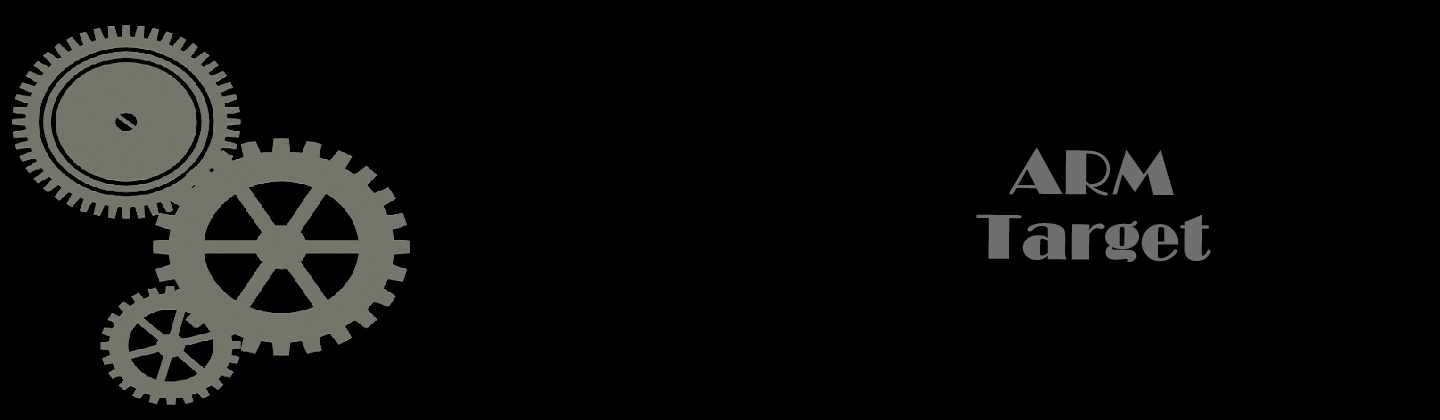
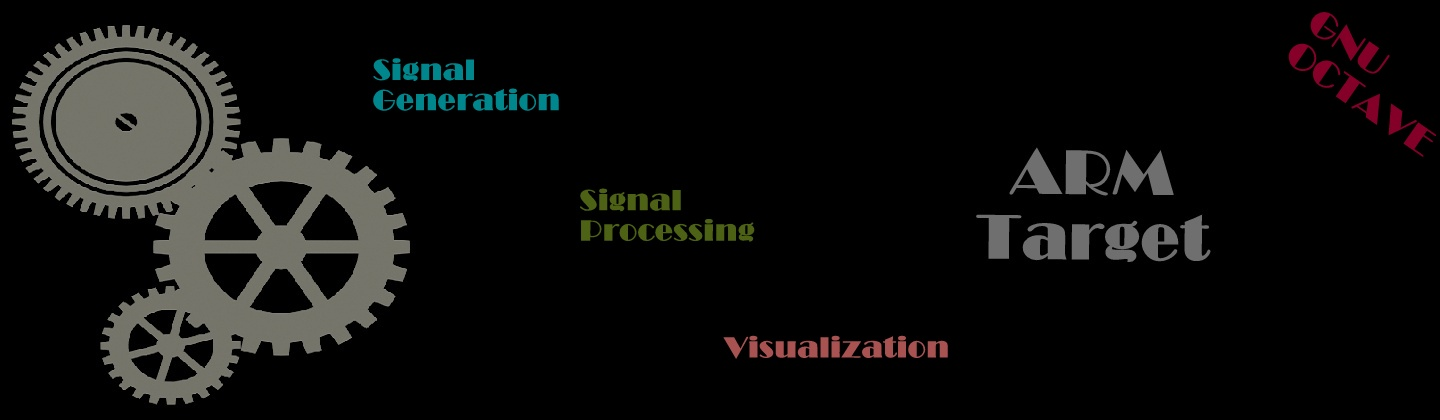
Chenges cover picture and few UI improvmenets

diff --git a/frontend/index.html b/frontend/index.html
@@ -57,7 +57,7 @@
     <nav class="navbar navbar-inverse" role="navigation">
       <div class="navbar-header">
         <button type="button" id="nav-toggle" class="navbar-toggle" data-toggle="collapse" data-target="#main-nav"> <span class="sr-only">Toggle navigation</span> <span class="icon-bar"></span> <span class="icon-bar"></span> <span class="icon-bar"></span> </button>
-        <a href="#" class="navbar-brand scroll-top logo  animated bounceInLeft"><b><i>Octave Sim</i></b></a> </div>
+        <a href="#" class="navbar-brand scroll-top logo  animated bounceInLeft"><b><i></i></b></a> </div>
       <!--/.navbar-header-->
       <div id="main-nav" class="collapse navbar-collapse">
         <ul class="nav navbar-nav" id="mainNav">
@@ -80,26 +80,9 @@
   <!-- Slider -->
         <div id="main-slider" class="flexslider">
             <ul class="slides">
-              <li>
-                <img src="images/slides/1.jpg" alt="" />
-                <div class="flex-caption">
-				 <h3>Drag!, Drop! Design!</h3> 
-					<p>Drag the tools to your design view</p>  
-                </div>
-              </li>
-              <li>
-                <img src="images/slides/2.jpg" alt="" />
-                <div class="flex-caption">
-					<h3>Simulate using Octave Blocks</h3> 
-					<p>Simulate and visualise your signal processing logics using the powerful open source GNU Octave engine.</p>
-                </div>
-              </li>
+             
               <li>
                 <img src="images/slides/3.jpg" alt="" />
-                <div class="flex-caption">
-                   <h3>Deploy - ARM Targets</h3> 
-				   <p> Realise your Octave Sim outputs in actual embedded ARM targets.</p>  
-                </div>
               </li>
             </ul>
         </div>
